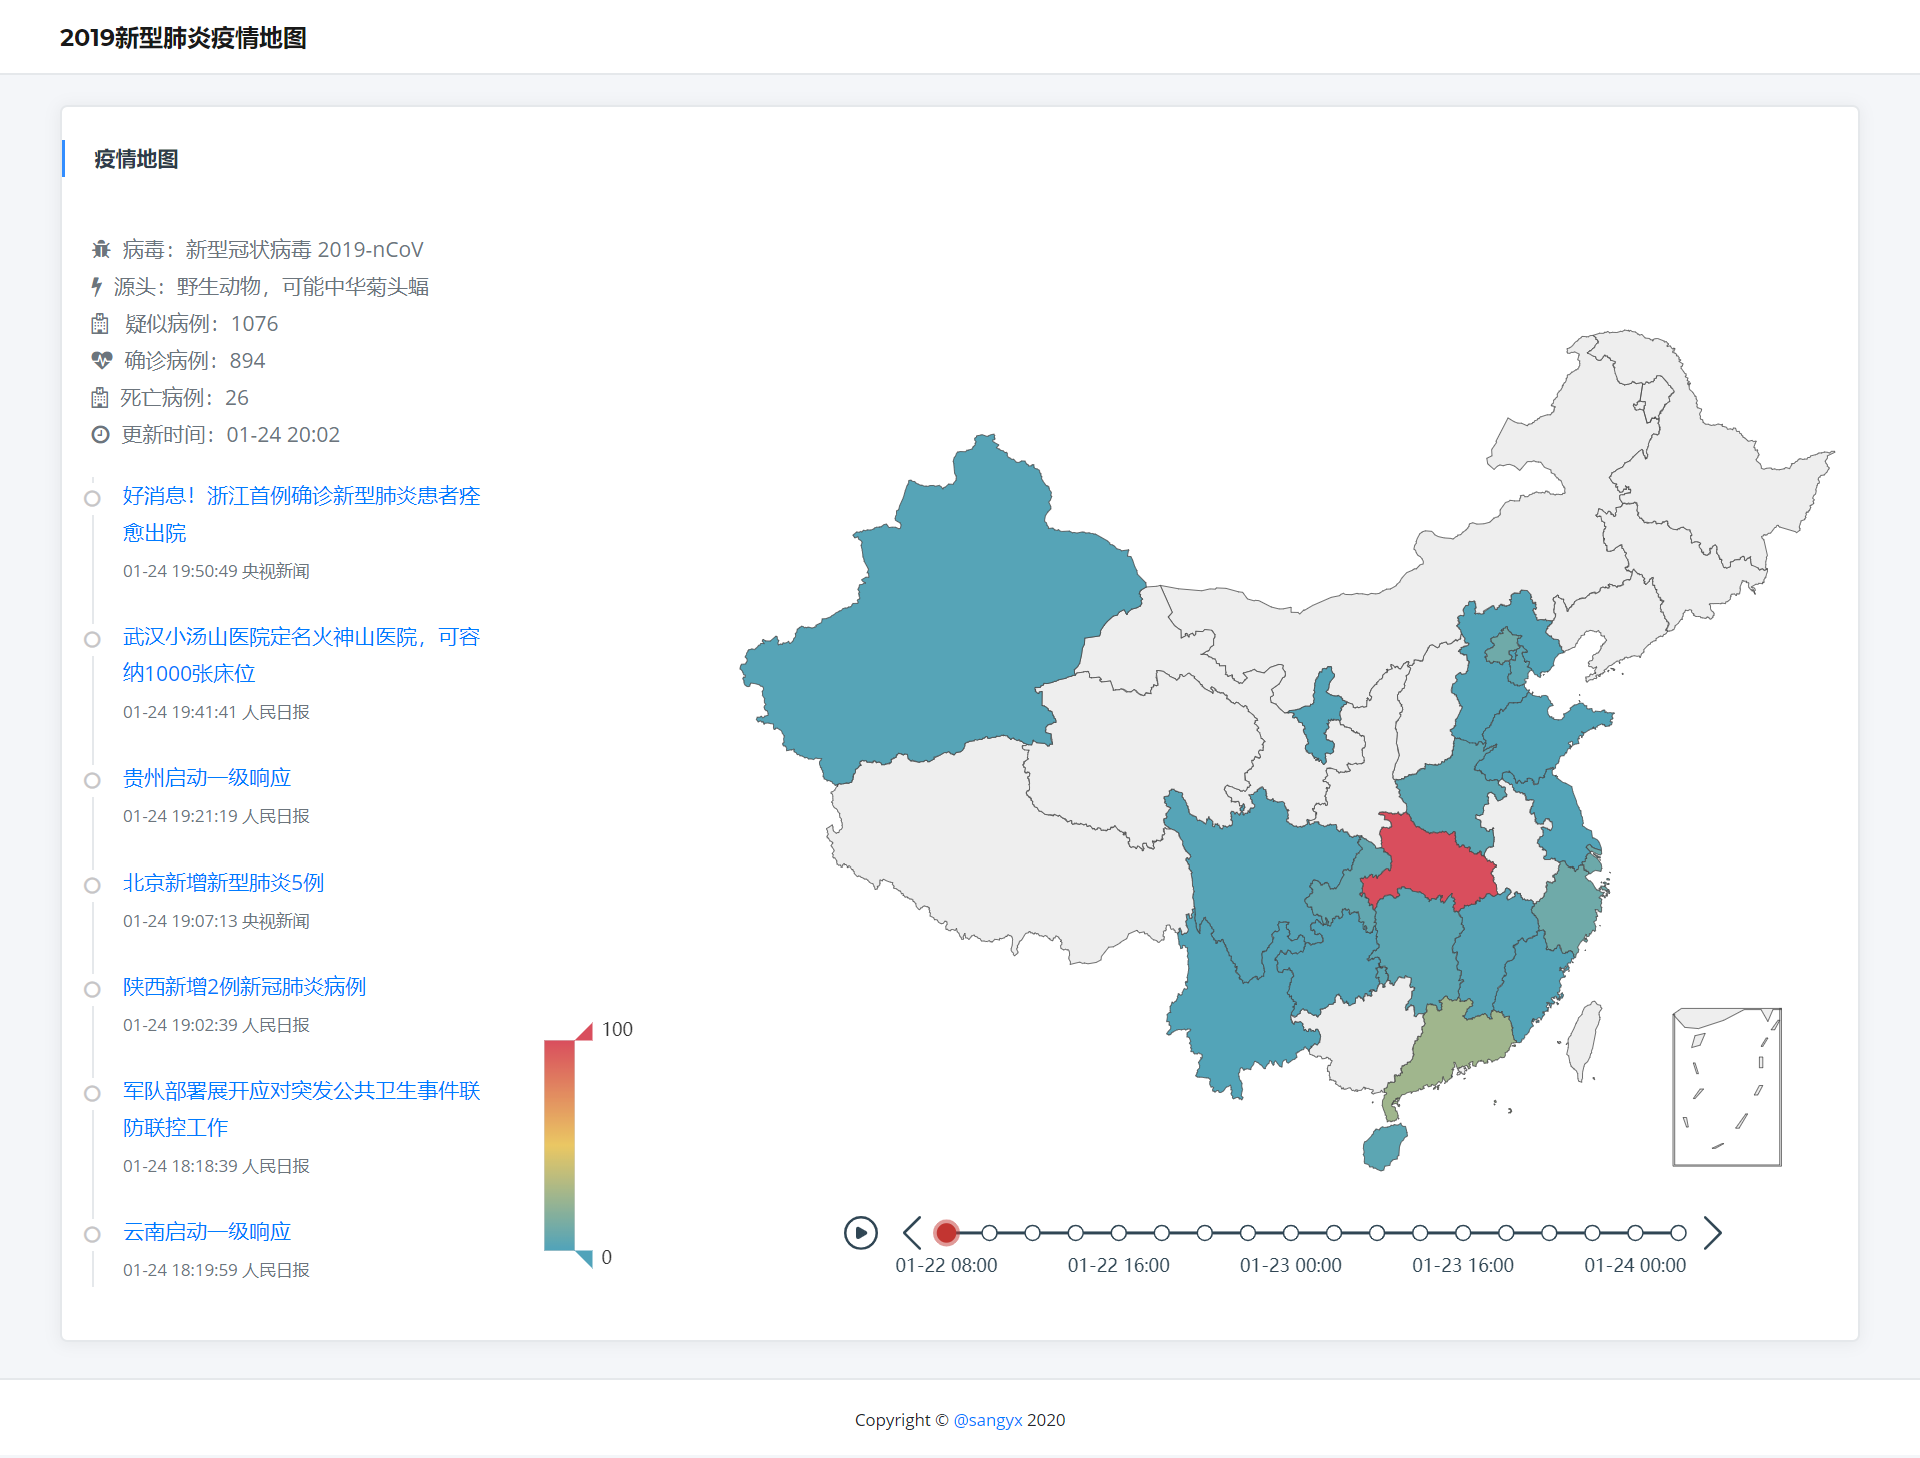
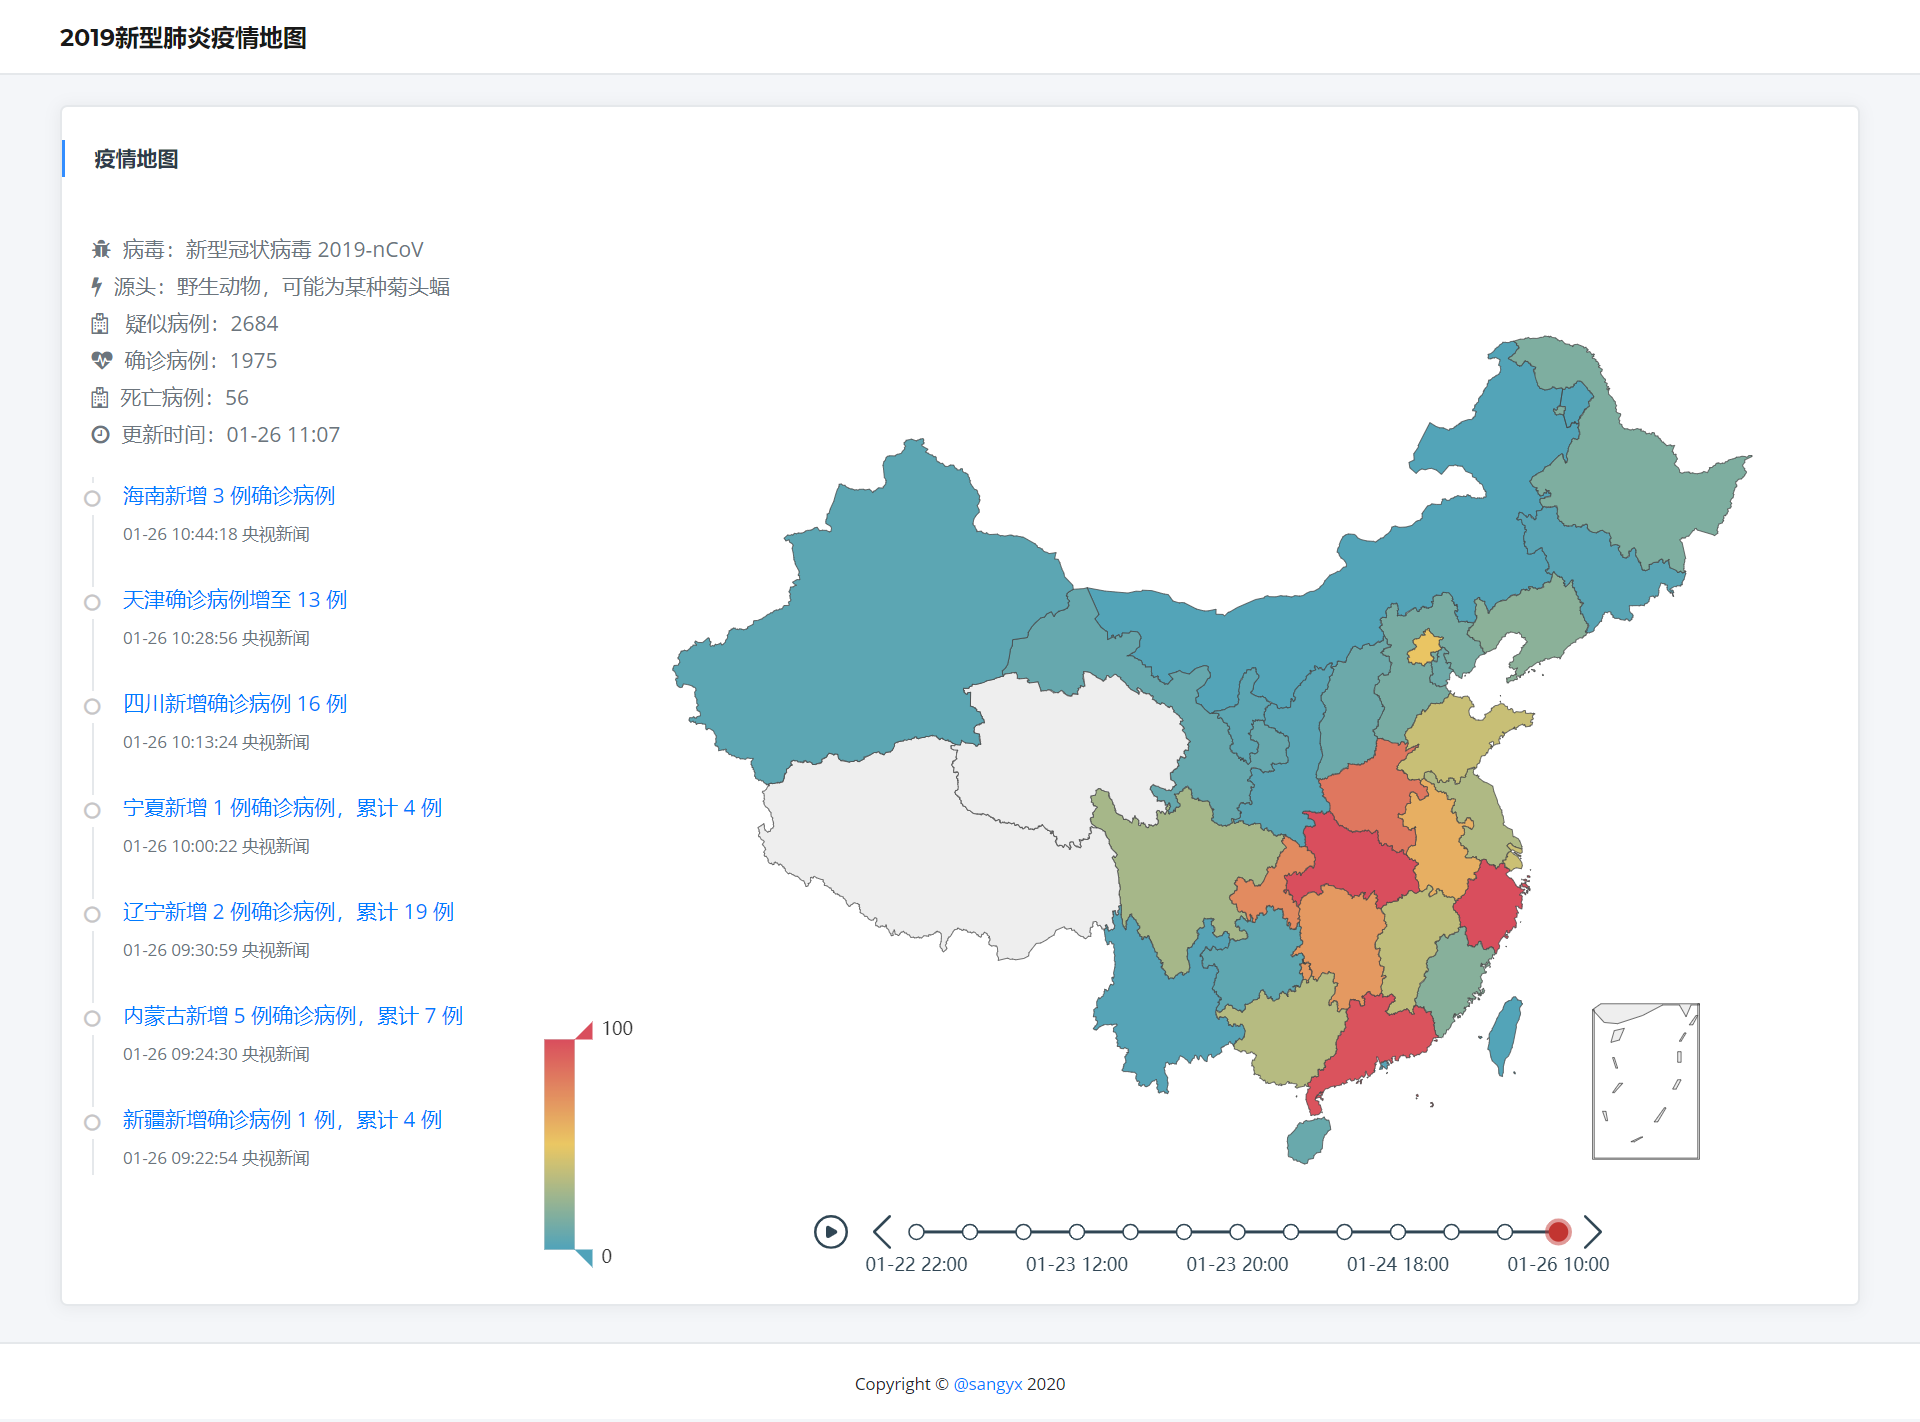
修复数据不准确问题

diff --git a/templates/index.html b/templates/index.html
@@ -78,7 +78,7 @@
                                         </ul>
                                     </div>
                                     <div class="col-xl-9">
-                                        <div id="ncov-map" class="chart-container" style="width:1000px; height:700px;">
+                                        <div id="ncov-map" class="chart-container" style="width:900px; height:700px;">
                                         </div>
                                     </div>
                                 </div>

diff --git a/app.py b/app.py
@@ -8,8 +8,6 @@ from pyecharts import options as opts
 
 app = Flask(__name__)
 
-provinces = ['北京市', '天津市', '上海市', '重庆市', '河北省', '山西省', '辽宁省', '吉林省', '黑龙江省', '江苏省', '浙江省', '安徽省', '福建省', '江西省', '山东省', '河南省', '湖北省', '湖南省', '广东省', '海南省', '四川省', '贵州省', '云南省', '陕西省', '甘肃省', '青海省', '台湾省', '内蒙古自治区', '广西壮族自治区', '西藏自治区', '宁夏回族自治区', '新疆维吾尔自治区', '香港', '澳门']
-
 def update_news():
     url = 'http://lab.isaaclin.cn/nCoV/api/news'
     news_data = []
@@ -30,45 +28,57 @@ def update_overall():
 
 def update_map(unit=3600 * 2):
     map_data = {}
-    start_time = 1579626000
+    start_time = 1579701600
     url = 'http://lab.isaaclin.cn/nCoV/api/province'
     params = {'country': '中国'}
     data = json.loads(requests.get(url, params=params).text)
 
-    visit = set()
     time_zone = set()
+    provinces = set()
     start_num = {}
     for r in data['results']:
-        if r['confirmed'] == '':
+        if 'confirmedCount' not in r:
             continue
+
         mtime = int(r['modifyTime']) / 1000
         if mtime < start_time:
             continue
-        time_str = time.strftime("%m-%d %H:%M", time.localtime(mtime - mtime % unit))
-        if time_str + r['provinceName'] in visit:
-            continue
-        visit.add(time_str + r['provinceName'])
-        time_zone.add(time_str)
-        if r['provinceName'] not in map_data:
-            map_data[r['provinceName']] = {}
-            start_num[r['provinceName']] = {
+
+        provinces.add(r['provinceShortName'])
+
+        if r['provinceShortName'] not in map_data:
+            map_data[r['provinceShortName']] = {}
+            start_num[r['provinceShortName']] = {
                 '确诊人数': 10000,
                 '治愈人数': 10000,
                 '死亡人数': 10000,
                 '疑似感染人数': 10000
             }
-        if time_str not in map_data[r['provinceName']]:
-            map_data[r['provinceName']][time_str] = {
-            }
-        map_data[r['provinceName']][time_str]['确诊人数'] = int(r['confirmed'])
-        map_data[r['provinceName']][time_str]['疑似感染人数'] =  0 if r['suspect'] == None else int(r['suspect'])
-        map_data[r['provinceName']][time_str]['治愈人数'] = int(r['cured'])
-        map_data[r['provinceName']][time_str]['死亡人数'] = int(r['death'])
 
-        start_num[r['provinceName']]['确诊人数'] = min(start_num[r['provinceName']]['确诊人数'], map_data[r['provinceName']][time_str]['确诊人数'])
-        start_num[r['provinceName']]['疑似感染人数'] = min(start_num[r['provinceName']]['疑似感染人数'], map_data[r['provinceName']][time_str]['疑似感染人数'])
-        start_num[r['provinceName']]['治愈人数'] = min(start_num[r['provinceName']]['治愈人数'], map_data[r['provinceName']][time_str]['治愈人数'])
-        start_num[r['provinceName']]['死亡人数'] = min(start_num[r['provinceName']]['死亡人数'], map_data[r['provinceName']][time_str]['死亡人数'])
+        time_str = time.strftime("%m-%d %H:%M", time.localtime(mtime - mtime % unit))
+        time_zone.add(time_str)
+
+        if time_str not in map_data[r['provinceShortName']]:
+            map_data[r['provinceShortName']][time_str] = {
+            }
+
+        map_data[r['provinceShortName']][time_str]['确诊人数'] = r['confirmedCount']
+        map_data[r['provinceShortName']][time_str]['疑似感染人数'] =  r['suspectedCount']
+        map_data[r['provinceShortName']][time_str]['治愈人数'] = r['curedCount']
+        map_data[r['provinceShortName']][time_str]['死亡人数'] = r['deadCount']
+
+        start_num[r['provinceShortName']]['确诊人数'] = min(start_num[r['provinceShortName']]['确诊人数'], r['confirmedCount'])
+        start_num[r['provinceShortName']]['疑似感染人数'] = min(start_num[r['provinceShortName']]['疑似感染人数'], r['suspectedCount'])
+        start_num[r['provinceShortName']]['治愈人数'] = min(start_num[r['provinceShortName']]['治愈人数'], r['curedCount'])
+        start_num[r['provinceShortName']]['死亡人数'] = min(start_num[r['provinceShortName']]['死亡人数'], r['deadCount'])
+
+    # 修正宁夏起始数量
+    start_num['宁夏'] = {
+        '确诊人数': 2,
+        '治愈人数': 0,
+        '死亡人数': 0,
+        '疑似感染人数': 0
+    }
 
     time_zone = sorted(list(time_zone))
     process_data = {}
@@ -80,40 +90,38 @@ def update_map(unit=3600 * 2):
             '死亡人数': [],
             '疑似感染人数': []
         }
+
         for p in provinces:
             if p not in map_data:
+                process_data[t]['确诊人数'] += [[p, start_num[p]['确诊人数']]]
+                process_data[t]['治愈人数'] += [[p, start_num[p]['治愈人数']]]
+                process_data[t]['死亡人数'] += [[p, start_num[p]['死亡人数']]]
+                process_data[t]['疑似感染人数'] += [[p, start_num[p]['疑似感染人数']]]
                 continue
-            if p == '黑龙江省':
-                np = '黑龙江'
-            elif p == '内蒙古自治区':
-                np = '内蒙古'
-            else:
-                np = p[: 2]
             if t in map_data[p]:
-                process_data[t]['确诊人数'] += [[np, map_data[p][t]['确诊人数']]]
-                process_data[t]['治愈人数'] += [[np, map_data[p][t]['治愈人数']]]
-                process_data[t]['死亡人数'] += [[np, map_data[p][t]['死亡人数']]]
-                process_data[t]['疑似感染人数'] += [[np, map_data[p][t]['疑似感染人数']]]
+                process_data[t]['确诊人数'] += [[p, map_data[p][t]['确诊人数']]]
+                process_data[t]['治愈人数'] += [[p, map_data[p][t]['治愈人数']]]
+                process_data[t]['死亡人数'] += [[p, map_data[p][t]['死亡人数']]]
+                process_data[t]['疑似感染人数'] += [[p, map_data[p][t]['疑似感染人数']]]
             else:
                 flag = i - 1
                 for j in range(i-1, -1, -1):
                     tj = time_zone[j]
                     if tj in map_data[p]:
-                        process_data[t]['确诊人数'] += [[np, map_data[p][tj]['确诊人数']]]
-                        process_data[t]['治愈人数'] += [[np, map_data[p][tj]['治愈人数']]]
-                        process_data[t]['死亡人数'] += [[np, map_data[p][tj]['死亡人数']]]
-                        process_data[t]['疑似感染人数'] += [[np, map_data[p][tj]['疑似感染人数']]]
+                        process_data[t]['确诊人数'] += [[p, map_data[p][tj]['确诊人数']]]
+                        process_data[t]['治愈人数'] += [[p, map_data[p][tj]['治愈人数']]]
+                        process_data[t]['死亡人数'] += [[p, map_data[p][tj]['死亡人数']]]
+                        process_data[t]['疑似感染人数'] += [[p, map_data[p][tj]['疑似感染人数']]]
                         break
                     flag -= 1
                 if flag == -1:
-                    process_data[t]['确诊人数'] += [[np, start_num[p]['确诊人数']]]
-                    process_data[t]['治愈人数'] += [[np, start_num[p]['治愈人数']]]
-                    process_data[t]['死亡人数'] += [[np, start_num[p]['死亡人数']]]
-                    process_data[t]['疑似感染人数'] += [[np, start_num[p]['疑似感染人数']]]
+                    process_data[t]['确诊人数'] += [[p, start_num[p]['确诊人数']]]
+                    process_data[t]['治愈人数'] += [[p, start_num[p]['治愈人数']]]
+                    process_data[t]['死亡人数'] += [[p, start_num[p]['死亡人数']]]
+                    process_data[t]['疑似感染人数'] += [[p, start_num[p]['疑似感染人数']]]
     return process_data
 
 def confirmed_map(map_data):
-    # print(map_data)
     tl = Timeline()
     for t in map_data:
         map0 = (
@@ -137,11 +145,6 @@ def index():
 @app.route("/map")
 def get_map():
     map_data = update_map()
-    # tab = Tab()
-    # tab.add(confirmed_map(map_data), "确诊人数")
-    # tab.add(suspect_map(map_data), "疑似感染人数")
-    # tab.add(cured_map(map_data), "治愈人数")
-    # tab.add(death_map(map_data), "死亡人数")
     return confirmed_map(map_data).dump_options_with_quotes()
 
 @app.route("/news")

diff --git a/README.md b/README.md
@@ -2,7 +2,7 @@
 
 > 「弱小和无知不是生存的障碍，傲慢才是」——《三体》
 
-本项目旨在为各种有利于抗击新型肺炎的应用提供简单框架。目前已实现简单的疫情演进地图(自2020年1月22日9点始)及资讯展示功能。
+本项目旨在为各种有利于抗击新型肺炎的应用提供简单框架。目前已实现简单的疫情演进地图(自2020年1月22日22点始)及资讯展示功能。
 
 感谢[Lei Guo](https://github.com/Monster12138)提供部署：[示例网址](http://39.108.227.206:8088)。页面展示：
 
